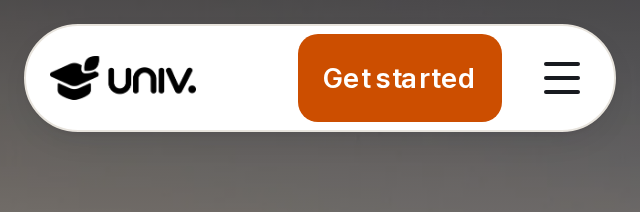
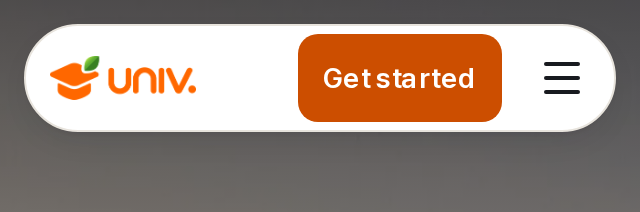
fix: strengthen Hangyul Univ orange branding across web and Android
- Marketing header, mobile menu and footer use the owner-supplied orange horizontal lockup (white/light
  surfaces); product shells keep black, dark surfaces keep ivory. Header geometry unchanged at 320–1920 px.
- Android (all three Expo apps): adaptive icon is the orange cap-and-leaf symbol on brand ivory, inside the
  66 dp safe circle, with a monochrome themed icon. Previously the launcher showed the generic Hangyul tangerine.
- Student app: notification small icon (white silhouette) and an Android 12+ splash that shows the vertical
  orange logo at 140 dp instead of a full-screen picture shrunk to a sliver.
- v23-android.sh gains an `apk-prod` stage (release APK with production origins); qa:brand covers the new rules.

Changed region(s): [[0.0625, 0.2547, 0.3125, 0.4811]]

diff --git a/apps/marketing-web/src/components/SiteLayout.tsx b/apps/marketing-web/src/components/SiteLayout.tsx
@@ -100,7 +100,9 @@ function Header() {
       {/* No state class: the pill is the pill, at the top of the page and 4,000 px down it. */}
       <div className="kn-header">
         <div className="kn-header__inner">
-          <div className="kn-header__brand"><Logo as={LocaleLink} href="/" /></div>
+          {/* Owner decision 2026-11-17: the marketing chrome is white/light, and the orange lockup ties the brand to the
+              orange primary action. Consoles and the student app keep black; dark surfaces keep ivory. */}
+          <div className="kn-header__brand"><Logo as={LocaleLink} href="/" color="orange" /></div>
           <div className="kn-header__spacer" />
           <nav className="kn-nav d-none d-xl-block" aria-label={t('nav.primary')}>
             <ul>
@@ -127,7 +129,7 @@ function Header() {
           </div>
         </div>
       </div>
-      <Offcanvas open={open} onClose={() => setOpen(false)} title={t('nav.menu')} closeLabel={t('common:actions.close')} logo={<Logo as={LocaleLink} href="/" />}>
+      <Offcanvas open={open} onClose={() => setOpen(false)} title={t('nav.menu')} closeLabel={t('common:actions.close')} logo={<Logo as={LocaleLink} href="/" color="orange" />}>
         <nav className="kn-mnav" aria-label={t('nav.primary')}>
           <NavLink to={lang('/')} end>{t('common:nav.home')}</NavLink>
           {PRIMARY.map((n) => (n.to.includes('#')
@@ -315,7 +317,7 @@ function Footer() {
         <div className="kn-footer__top">
           <div className="kn-footer__brand">
             {/* `below`: the footer lockup is ~3,600 px down every page and was loading eagerly (V20 §48). */}
-            <Logo as={LocaleLink} href="/" below />
+            <Logo as={LocaleLink} href="/" color="orange" below />
             <p className="kn-footer__statement">{t('footer.statement')}</p>
             <SocialLinks />
             <div className="kn-footer__lang"><LocaleSelector /></div>

diff --git a/scripts/brand/build-brand-assets.py b/scripts/brand/build-brand-assets.py
@@ -116,8 +116,22 @@ emit(BRAND / "icon-512.png", on_canvas(sym, (512, 512), IVORY, fit=0.60))
 
 # ------------------------------------------------------------------ native
 emit(BRAND / "native/app-icon-1024.png", on_canvas(sym, (1024, 1024), IVORY, fit=0.60))
-emit(BRAND / "native/adaptive-foreground-1024.png", on_canvas(sym, (1024, 1024), None, fit=0.46))  # 66 % safe circle
+# Android adaptive icon: 108 dp canvas, launcher masks (circle, squircle, rounded square, Samsung) show the centre
+# 72 dp and guarantee only the centre 66 dp circle. At fit 0.45 the farthest opaque pixel (the leaf tip) is 32.3 dp
+# from the centre — inside that 33 dp radius on every mask — and the symbol still fills ~68 % of the visible icon.
+ADAPTIVE_FIT = 0.45
+emit(BRAND / "native/adaptive-foreground-1024.png", on_canvas(sym, (1024, 1024), None, fit=ADAPTIVE_FIT))
+# Themed (Android 13+) icon: the same symbol as a single-colour silhouette — the black master, never the colour art.
+emit(BRAND / "native/adaptive-monochrome-1024.png", on_canvas(symbols["black"], (1024, 1024), None, fit=ADAPTIVE_FIT))
+# Status-bar notification glyph: Android draws only the alpha channel, so this is the silhouette in white.
+glyph = on_canvas(symbols["black"], (96, 96), None, fit=0.92)
+white = Image.new("RGBA", glyph.size, (255, 255, 255, 0))
+white.putalpha(glyph.getchannel("A"))
+emit(BRAND / "native/notification-icon.png", white)
 emit(BRAND / "native/splash.png", on_canvas(verticals["orange"], (1284, 2778), SPLASH_BG, fit=0.36))
+# Android 12+ shows the splash image inside a circle (192 dp of a 288 dp canvas). A transparent square holding only
+# the vertical logo lets `imageWidth` size the logo itself instead of a full-screen picture shrunk to a sliver.
+emit(BRAND / "native/splash-icon.png", on_canvas(verticals["orange"], (1024, 1024), None, fit=1.0))
 
 # ------------------------------------------------------------------ manifest of sizes (read by @hangyul/icons)
 emit_bytes(BRAND / "dimensions.json", (json.dumps(dims, indent=2) + "\n").encode())
@@ -141,7 +155,7 @@ emit_bytes(mk / "og/hangyul-univ-og-v1.jpg", outputs[BRAND / "hangyul-univ-og-v1
 # A stable public logo URL (structured data, e-mail, partners) — never hashed by the bundler.
 emit_bytes(mk / "brand/hangyul-univ-logo-horizontal-black.png", outputs[BRAND / "hangyul-univ-logo-horizontal-black@2x.png"])
 for app in ("student-mobile", "agency-mobile", "university-mobile"):
-    for f in ("app-icon-1024.png", "adaptive-foreground-1024.png", "splash.png"):
+    for f in ("app-icon-1024.png", "adaptive-foreground-1024.png", "adaptive-monochrome-1024.png", "notification-icon.png", "splash.png", "splash-icon.png"):
         emit_bytes(ROOT / "apps" / app / "assets" / f, outputs[BRAND / "native" / f])
 emit_bytes(ROOT / "packages/mobile-ui/assets/brand/hangyul-univ-logo-vertical-orange.png", outputs[BRAND / "hangyul-univ-logo-vertical-orange@2x.png"])
 

diff --git a/docs/BRAND_ASSETS.md b/docs/BRAND_ASSETS.md
@@ -21,10 +21,11 @@ The owner-supplied final logo set (2026-11-17). One source, one definition, gene
 
 | Surface | Variant |
 | --- | --- |
-| Light / white (headers, light footer, auth pages, dialogs) | **horizontal black** — `<Logo />` |
+| **Marketing site** header, menu and footer (white / light) | **horizontal orange** — `<Logo color="orange" />` (owner decision 2026-11-17: ties the brand to the orange primary action) |
+| Product shells and auth pages on light (student app, admin, university console) | **horizontal black** — `<Logo />` |
 | Dark (navy sidebar, dark footer/CTA, over a photograph) | **horizontal ivory** — `<Logo tone="light" />` |
 | Orange / tangerine | **ivory**. Never the orange logo on orange. |
-| White / ivory identity moment (splash, app sign-in, app icon) | **orange**, sparingly |
+| White / ivory identity moment (native splash, native sign-in, app icon, favicon) | **orange** |
 
 - **Horizontal** for anything bar-shaped: headers, navigation, footers, auth headers, e-mail bars.
 - **Vertical** only for a centred identity moment: native splash, native sign-in, an empty/centred brand area
@@ -59,6 +60,20 @@ Symbol only — the wordmark is never squeezed into an icon. `favicon.ico` (16/3
 `favicon-48.png` transparent; `apple-touch-icon.png` (180), `icon-192.png`, `icon-512.png` and the native
 `app-icon-1024.png` are the orange symbol on brand ivory `#F5F5E6`, inside the maskable safe zone. Android adaptive
 foreground keeps the symbol inside the 66 % safe circle. Native splash: vertical orange logo on `#FFFDF8`.
+
+### Android (all three Expo apps)
+
+| Piece | File (in `apps/*-mobile/assets/`) | Notes |
+| --- | --- | --- |
+| Adaptive foreground | `adaptive-foreground-1024.png` | orange symbol + green leaf, 45 % of the canvas — inside the 66 dp safe circle on circle / squircle / rounded-square / Samsung masks |
+| Adaptive background | `#F5F5E6` (app.json) | brand ivory; never black |
+| Themed (Android 13+) | `adaptive-monochrome-1024.png` | single-colour silhouette from the black master |
+| Legacy / iOS / store icon | `app-icon-1024.png` | orange symbol on ivory |
+| Notification small icon | `notification-icon.png` (student) | white silhouette, tinted `#CC4E00` by the system; never the colour icon |
+| Splash (student, Android 12+) | `splash-icon.png`, `imageWidth: 140` | vertical orange logo on a transparent square, sized to sit inside the system splash circle |
+
+The launcher icon never carries the wordmark. After changing any of these, re-run `expo prebuild` and rebuild —
+an installed app keeps its old icon until the new APK is installed (launchers also cache icons).
 
 ## Do not
 
